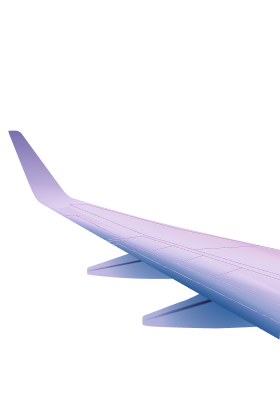
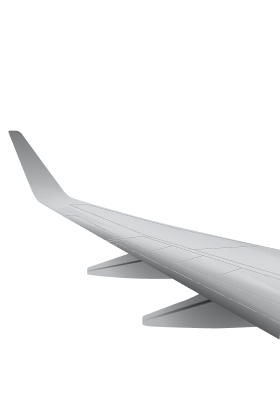
Make the wing grey to match the app palette
scripts/gray-wing.py turns the lavender export from Figma into luma
greys with the DS cool tint, keeping its shading.

Changed region(s): [[0.0286, 0.3308, 1.0, 0.8722], [0.8286, 0.6015, 0.9143, 0.6316]]

diff --git a/src/components/PlaneWindow/PlaneWindow.module.css b/src/components/PlaneWindow/PlaneWindow.module.css
@@ -54,8 +54,9 @@
 
 /*
  * The wing is copied from Figma 948:62116 (stock «Airplane window», layers 16–126 of group-R5),
- * exported as a 4× PNG of that window's opening (1123 × 1597). The opening covers the glass by
- * width and is centred vertically: 70.086 × 99.873 at top −4.066.
+ * exported as a 4× PNG of that window's opening (1123 × 1597) and turned from lavender to the DS
+ * greys (scripts/gray-wing.py). The opening covers the glass by width and is centred vertically:
+ * 70.086 × 99.873 at top −4.066.
  * It flexes a little in flight: it pivots on the root, which is off the glass on the right, so
  * only the tip moves (about half a pixel). Constant motion, so ease-in-out both ways.
  */

diff --git a/scripts/gray-wing.py b/scripts/gray-wing.py
@@ -1,0 +1,32 @@
+"""Recolours the wing exported from Figma (lavender in the stock illustration) to the DS greys.
+
+Every pixel becomes its own luma (Rec. 709), so the shading of the original stays, with a faint
+cool tint like #F2F3F5 / #7E7F81; LIFT brightens the upper surface towards aluminium. Alpha is kept.
+Needs Pillow. Run after a new export from Figma:
+
+    python3 scripts/gray-wing.py wing-figma.png src/assets/window/wing.png
+"""
+import sys
+
+from PIL import Image
+
+TINT = (0.982, 0.988, 1.0)  # R, G, B multipliers: blue stays, red and green drop a little
+LIFT = 1.06  # brightness of the lit surface; the dark underside barely moves
+
+
+def gray(r, g, b):
+    luma = 0.2126 * r + 0.7152 * g + 0.0722 * b
+    luma = 255 * (luma / 255) ** (1 / LIFT)
+    return tuple(min(255, round(luma * t)) for t in TINT)
+
+
+def main(src, dst):
+    im = Image.open(src).convert('RGBA')
+    im.putdata([(*gray(r, g, b), a) for r, g, b, a in im.getdata()])
+    im.save(dst, optimize=True)
+
+
+if __name__ == '__main__':
+    if len(sys.argv) != 3:
+        sys.exit(__doc__)
+    main(sys.argv[1], sys.argv[2])

diff --git a/README.md b/README.md
@@ -24,12 +24,15 @@ npm run build:single   # dist-single/index.html, всё в одном файле
 | `components/PlaneWindow` | Иллюминатор: рама и ободок из Figma (SVG) с более округлым контуром, стекло с анимированным небом и крылом, приспущенная шторка |
 | `scripts/round-window.py` | Делает контуры рамы, ободка и маски стекла округлыми: прямые бока, сверху и снизу половинки эллипса (высота = 0.9 полуширины, как на референсе). Габариты, градиенты, тень и блики остаются из Figma. Запускать после новой выгрузки из Figma |
 | `components/PlaneWindow/cloudSky.ts` | Дневное небо и облака на Canvas 2D |
-| `assets/window/wing.png` | Крыло, скопированное из Figma один в один |
+| `assets/window/wing.png` | Крыло, скопированное из Figma один в один и переведённое в серый |
+| `scripts/gray-wing.py` | Перекрашивает выгруженное крыло из лавандового в серые DS |
 | `components/PlaneWindow/Shade.tsx` | Шторка (SVG), приспущена как на mikes.cv |
 
 ## Небо, облака, крыло, шторка
 
-Крыло взято из стоковой иллюстрации в Figma: фрейм «21414987_Airplane_window (1) 1» (`948:62116`) на странице «Результат поиска», слои 16–126 группы `group-R5` (обтекатели, градиенты, линии предкрылков и закрылков, без неба, облаков, луны и шторки). Слои скопированы во временный фрейм размером с проём окна (1123 × 1597) и экспортированы из Figma в PNG 280 × 399 (4× от нашего стекла), так что цвета и форма точно как в макете. Проём ложится на стекло по ширине и центрируется по высоте.
+Крыло взято из стоковой иллюстрации в Figma: фрейм «21414987_Airplane_window (1) 1» (`948:62116`) на странице «Результат поиска», слои 16–126 группы `group-R5` (обтекатели, градиенты, линии предкрылков и закрылков, без неба, облаков, луны и шторки). Слои скопированы во временный фрейм размером с проём окна (1123 × 1597) и экспортированы из Figma в PNG 280 × 399 (4× от нашего стекла), так что форма и светотень точно как в макете. Проём ложится на стекло по ширине и центрируется по высоте.
+
+В иллюстрации крыло лавандовое, у нас оно серое: `scripts/gray-wing.py` переводит каждый пиксель в его яркость с лёгким холодным оттенком, как у серых DS (`#F2F3F5`, `#7E7F81`), и чуть осветляет верхнюю поверхность. После новой выгрузки из Figma: `python3 scripts/gray-wing.py wing-figma.png src/assets/window/wing.png` (нужен Pillow).
 
 Облака пухлые, с плавным градиентом и тенями в складках. Время суток дневное: небо голубое, сверху взят синий `#4596F0` из Figma.
 
